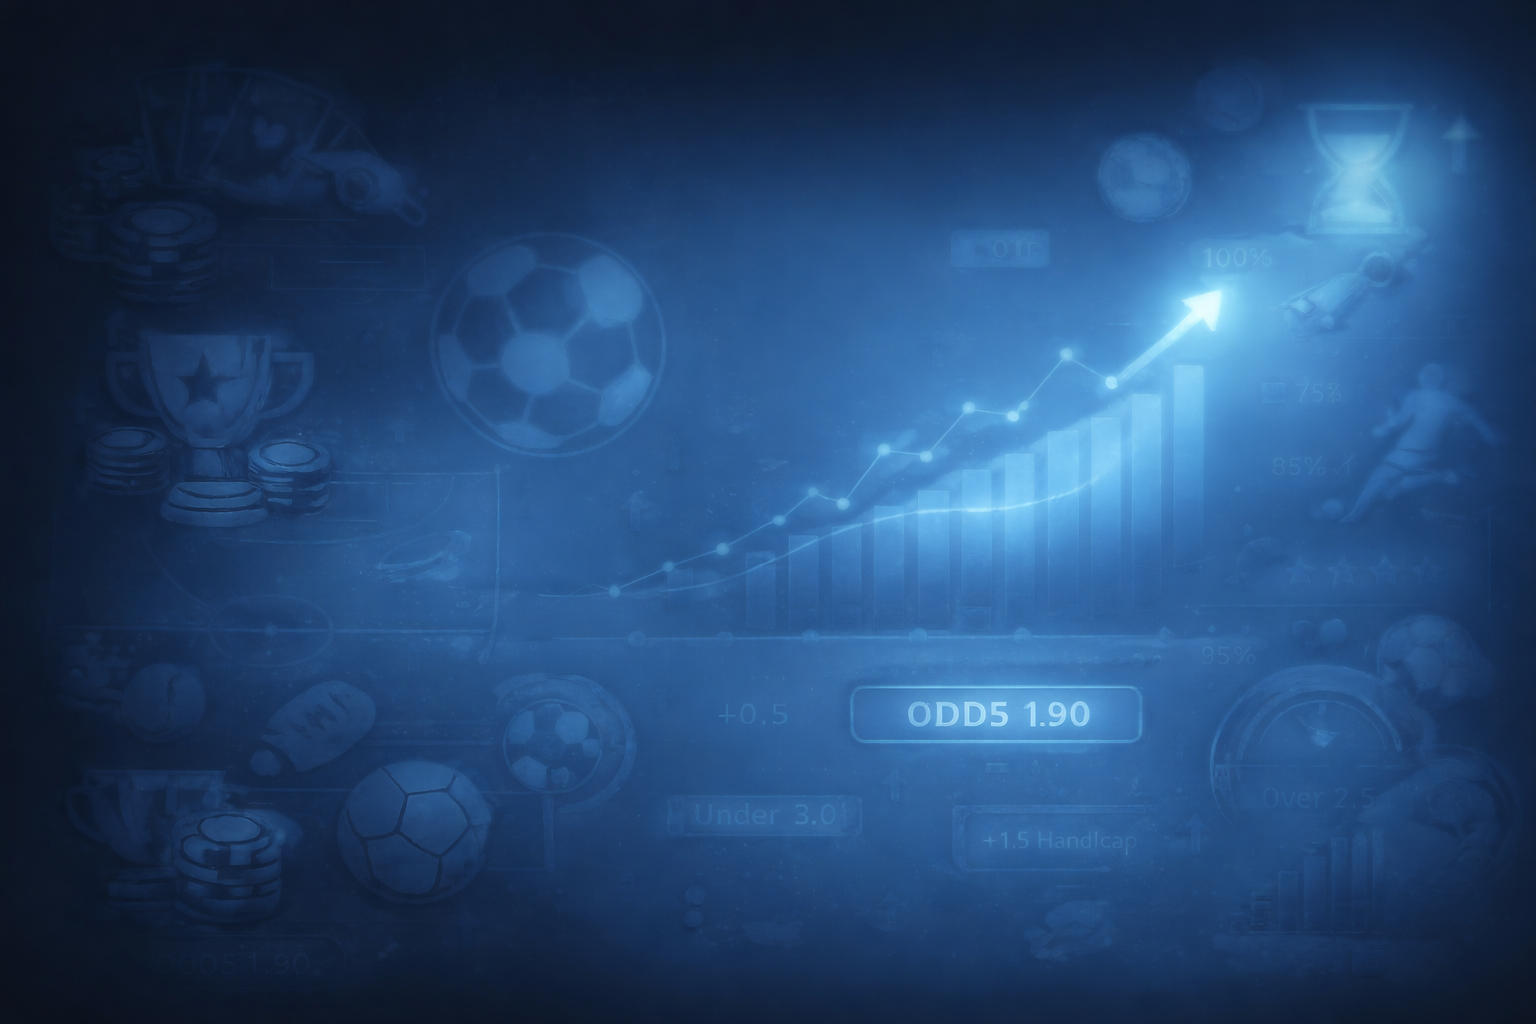
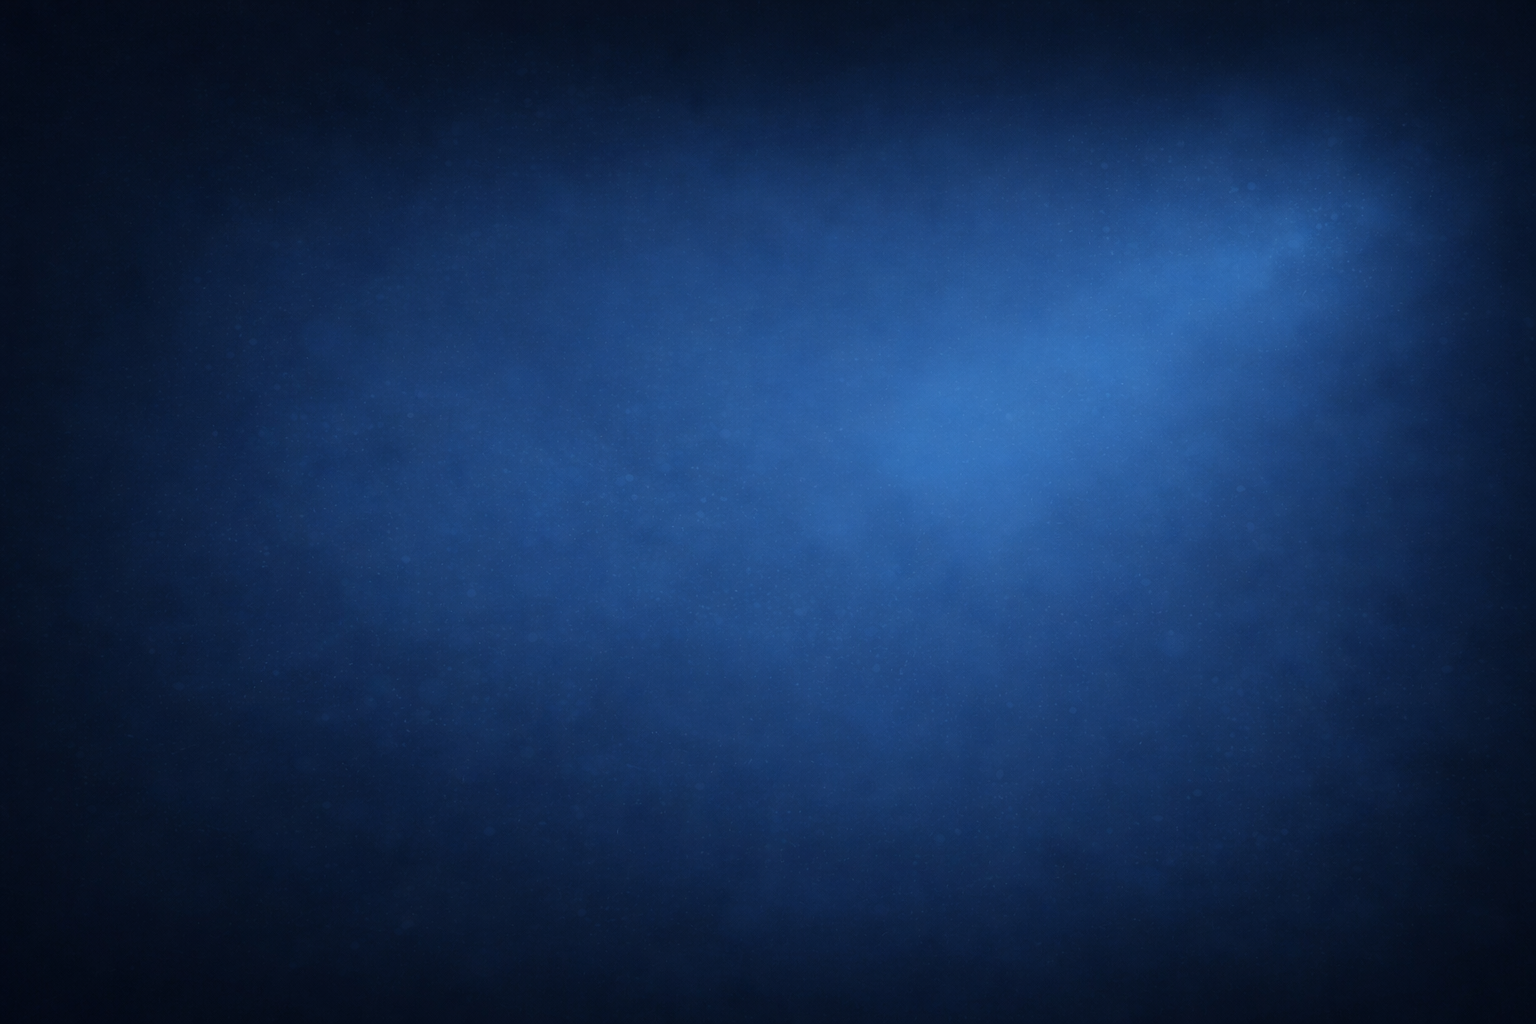
change theme to dark theme with green

diff --git a/src/app/components/tips/tips.scss b/src/app/components/tips/tips.scss
@@ -1,22 +1,21 @@
 .dashboard {
   padding: 20px;
-  background-color: #f8f9fb;
-   background-image: url('/images/background-tips.png');
+  // background-image: url('/images/background-tips.png');
+  background-color: #282828;
   background-size: cover;
   background-position: center;
   background-repeat: no-repeat;
   min-height: 100vh;
   
 }
-
 h1{
-  color: #ffffff;
+  color: #f8fafc;
   display: flex;
   justify-content: center;
 }
 
 h2{
-  color: #c4c4c4;
+  color: rgb(185, 185, 185);
   display: flex;
   justify-content: center;
   font-weight: 400;
@@ -33,11 +32,20 @@ h2{
 .bet-card {
   max-width: 310px;
   min-width: 310px;
+  background-color: #434745;
+  border-radius: 12px;
+  box-shadow: 0 1px 3px rgba(0, 0, 0, 0.06);
   display: flex;
   flex-direction: column;
   justify-content: space-between;
   padding: 16px;
   border-radius: 12px;
+}
+
+.bet-card:hover {
+  box-shadow: 0 4px 12px rgba(0, 0, 0, 0.08);
+  transform: translateY(-2px);
+  transition: all 0.2s ease;
 }
 
 /* HEADER DO CARD */
@@ -49,10 +57,12 @@ h2{
   .league {
     font-size: 12px;
     opacity: 0.7;
+    color: #f8fafc;
   }
 
   .teams {
     font-weight: 600;
+    color: #f8fafc;
   }
 }
 
@@ -64,15 +74,17 @@ h2{
   margin-top: 12px;
 
   .bet-type {
+    color: #f8fafc;
     font-weight: 500;
   }
 
   .odd {
     font-weight: bold;
-    color: #2563eb;
+    color: #ffc126;
   }
 
   .time {
+    color: #f8fafc;
     font-size: 12px;
     opacity: 0.8;
   }
@@ -83,5 +95,5 @@ h2{
   margin: 24px 0 12px;
   font-weight: 600;
   font-size: 24px;
-  color: #ffffff;
+  color: #f8fafc;
 }

diff --git a/src/app/components/menu/menu.scss b/src/app/components/menu/menu.scss
@@ -1,7 +1,7 @@
 .top-menu {
   height: 64px;
-  background-color: #4d7feb;
-  border-bottom: 2px solid #3183ee; /* linha leve */
+  background-color: #005440;
+  // border-bottom: 2px solid #3183ee; /* linha leve */
   display: flex;
   align-items: center;
   justify-content: space-between;
@@ -32,6 +32,10 @@ img{
   padding: 0;
 }
 
+li{
+  display: flex;
+}
+
 .menu-items li {
   cursor: pointer;
   font-weight: 500;
@@ -46,9 +50,12 @@ img{
   opacity: 0.8;
 }
 
+
 .menu-items li a {
-  display: block;
-  padding: 10px 16px;
+  display: flex;
+  align-items: center;
+  gap: 6px;
+  padding: 15px 16px;
   text-decoration: none;        /* ❌ remove sublinhado */
   color: #ffffff;               /* azul escuro */
   font-weight: 500;
@@ -61,11 +68,11 @@ img{
 /* Hover */
 .menu-items li a:hover {
   background-color: #e0ecff;
-   color: #1d4ed8;
+   color: #005440;
 }
 
 /* Item ativo (rota atual) */
 .menu-items li.active a {
   background-color: #dbeafe;    /* azul claro */
-  color: #1d4ed8;
+  color: #005440;
 }

diff --git a/src/app/components/menu/menu.html b/src/app/components/menu/menu.html
@@ -8,16 +8,31 @@
 
     <ul class="menu-items">
       <li routerLinkActive="active">
-        <a routerLink="/home">Home</a>
+       
+        <a routerLink="/home">
+           <mat-icon>home</mat-icon>
+          Home
+        </a>
       </li>
       <li routerLinkActive="active">
-        <a routerLink="/tips">Apostas online</a>
+        
+        <a routerLink="/tips">
+          <mat-icon>attach_money</mat-icon>
+          Apostas online</a>
       </li>
       <li routerLinkActive="active">
-        <a routerLink="/insights">Dashboard</a>
+       
+        <a routerLink="/insights">
+           <mat-icon>dashboard</mat-icon>
+          Dashboard
+        </a>
       </li>
       <li routerLinkActive="active">
-        <a (click)="logout()">Logout</a>
+       
+        <a (click)="logout()">
+           <mat-icon>person_outline</mat-icon>
+          Logout
+        </a>
       </li>
     </ul>
   </nav>  

diff --git a/src/app/components/loggin/loggin.scss b/src/app/components/loggin/loggin.scss
@@ -40,7 +40,7 @@
     text-align: center;
 
     h2 {
-      color: #2563EB;
+      color: #005440;
     }
   }
 
@@ -56,7 +56,7 @@
 
       &:focus {
         outline: none;
-        border-color: #2563EB;
+        border-color: #005440;
       }
     }
   }
@@ -67,14 +67,14 @@
     margin-top: 8px;
     border-radius: 8px;
     border: none;
-    background-color: #2563EB;
+    background-color: #005440;
     color: #FFF7ED;
     font-size: 16px;
     font-weight: 600;
     cursor: pointer;
 
     &:hover {
-      background-color: #3B82F6; /* tom mais escuro */
+      background-color: #00a879; /* tom mais escuro */
     }
 
     /* Focus (acessibilidade) */

diff --git a/src/app/components/menu/menu.ts b/src/app/components/menu/menu.ts
@@ -1,11 +1,15 @@
 import { Component } from '@angular/core';
 import { Router, RouterModule } from '@angular/router';
 import { AuthService } from '../../services/auth.service';
+import { MatIconModule } from '@angular/material/icon';
 
 @Component({
   selector: 'app-menu',
   templateUrl: './menu.html',
-  imports: [RouterModule],
+  imports: [
+    RouterModule,
+    MatIconModule
+  ],
   styleUrls: ['./menu.scss']
 })
 export class MenuComponent {
